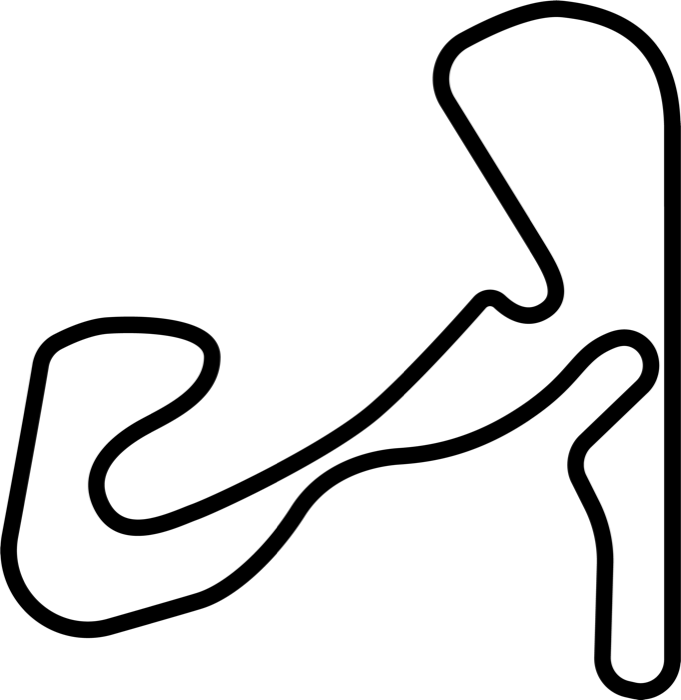
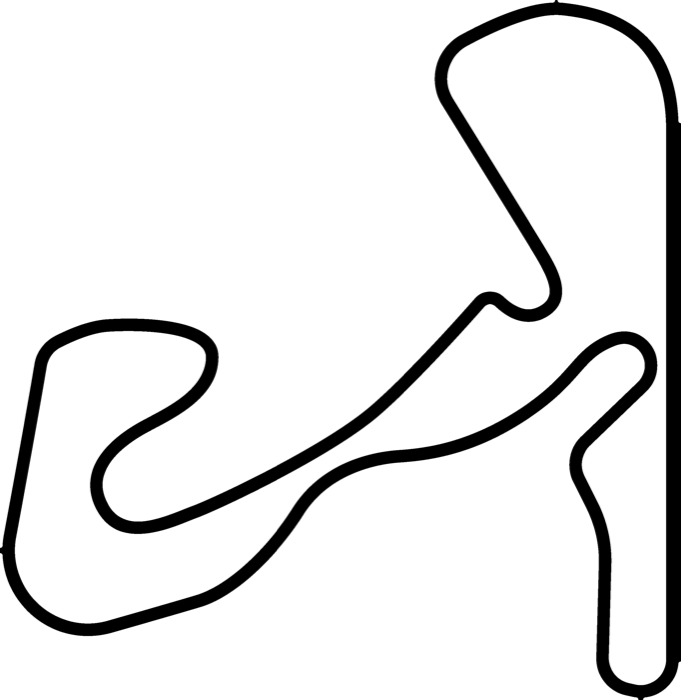
Open Zandvoort's map corridors with a uniform thinner ribbon; bigger phone map; sector 1 at the S/F line.
The source art's corridors between parallel arms are only 14-25px wide (2700px scale) against a 76px ribbon, so any thickening merges them at the mid-straight. Erode the mask uniformly by 8px instead — the tightest gap opens to ~30px (about 2 CSS px on phone), a true gap with no local carving. Re-extract the centerline (ribbon 14) and rotate the path to start at the start/finish line (~61% down the main straight, per the detail map) running toward Tarzan. Zandvoort keeps Hungary's taller near-square phone map slot.

Changed region(s): [[0.0, 0.0, 1.0, 1.0]]

diff --git a/client/src/components/LiveCircuitMap.tsx b/client/src/components/LiveCircuitMap.tsx
@@ -375,7 +375,9 @@ export function LiveCircuitMap({
   const isResults = variant === 'results';
   const nativeIPad = !isResults && isNativeIPad();
   /** Near-square Hungary reads small at the Spa phone budget — taller phone slot only. */
-  const phoneHungaryBoost = !isResults && !nativeIPad && circuit?.id === 'hungary';
+  // Near-square art (Hungary, Zandvoort) gets a taller phone slot than wide layouts.
+  const phoneHungaryBoost =
+    !isResults && !nativeIPad && (circuit?.id === 'hungary' || circuit?.id === 'zandvoort');
   /** Sector paint matches the black ribbon width when known (per-circuit from extract). */
   const sectorStroke = meta.ribbon
     ? isResults
